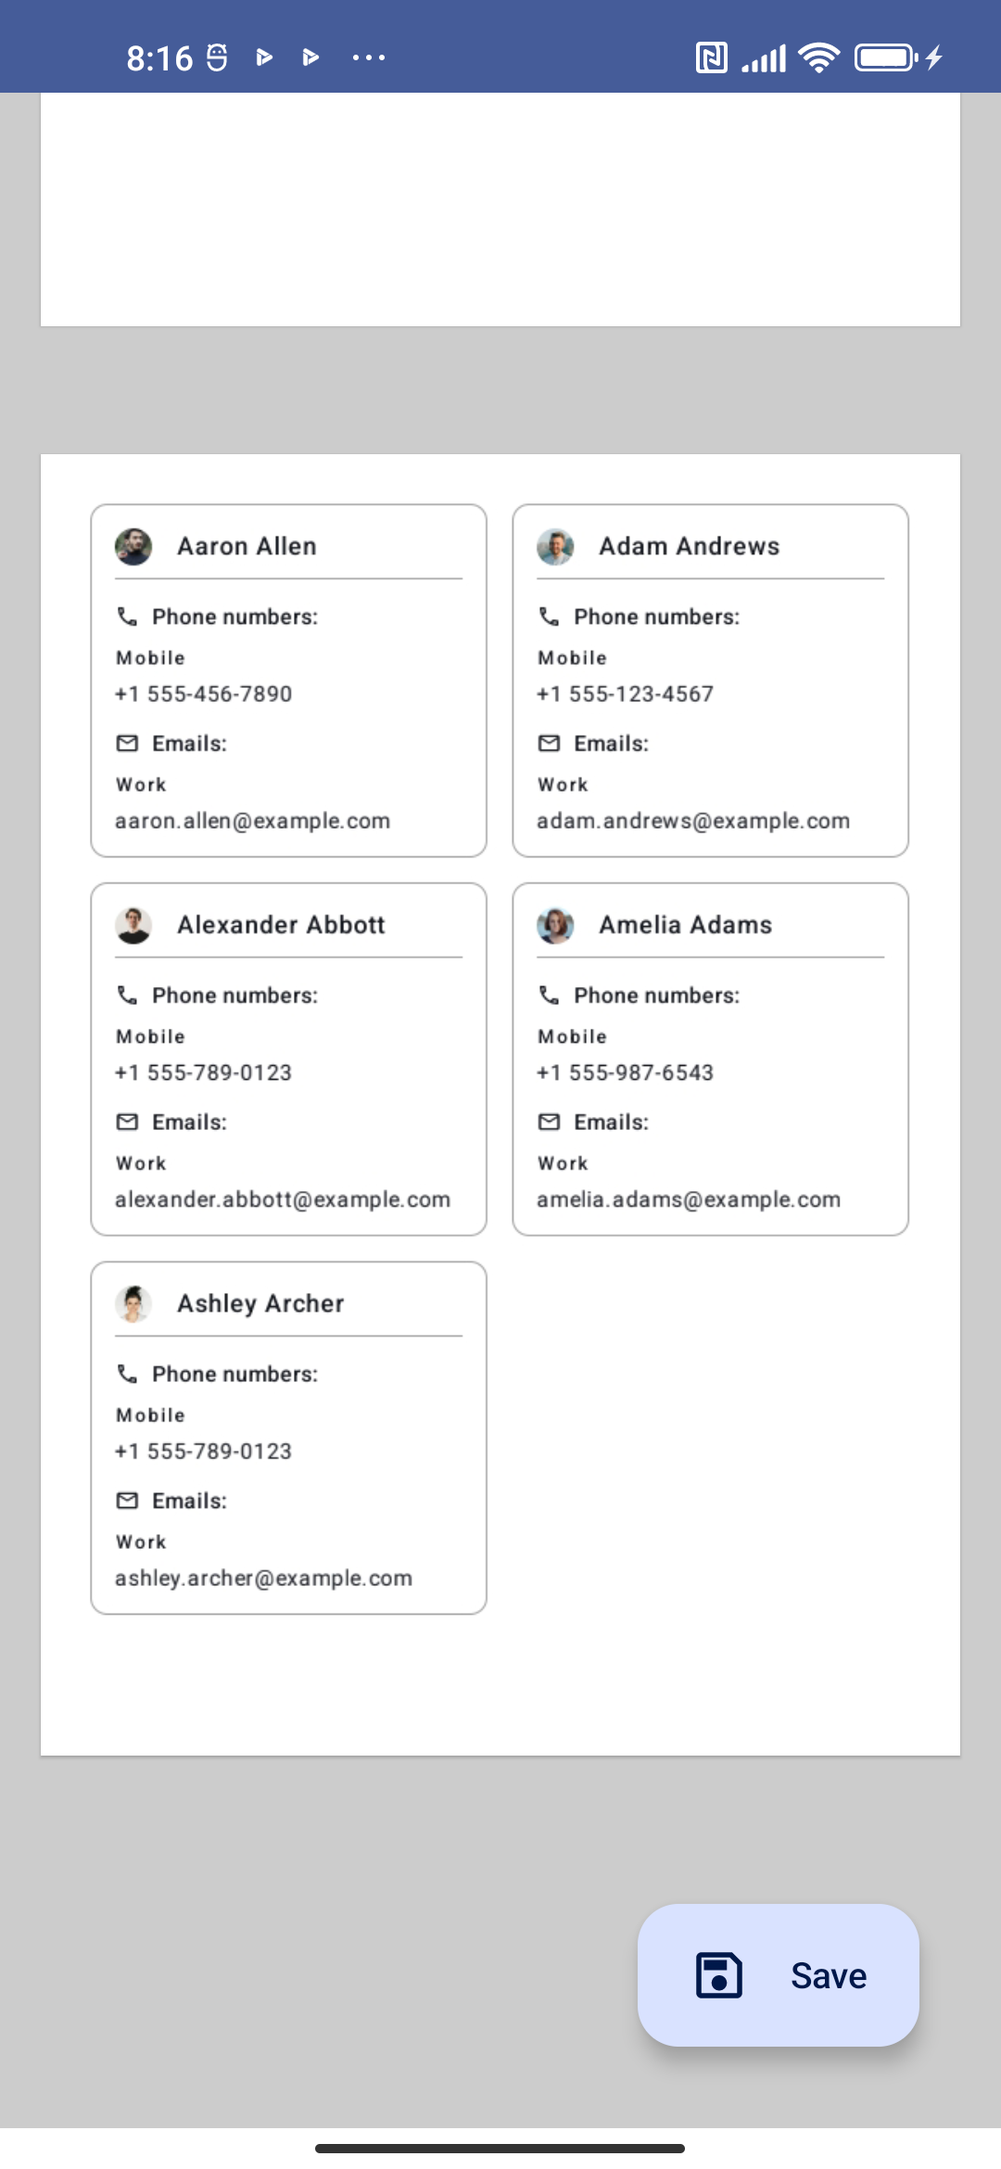
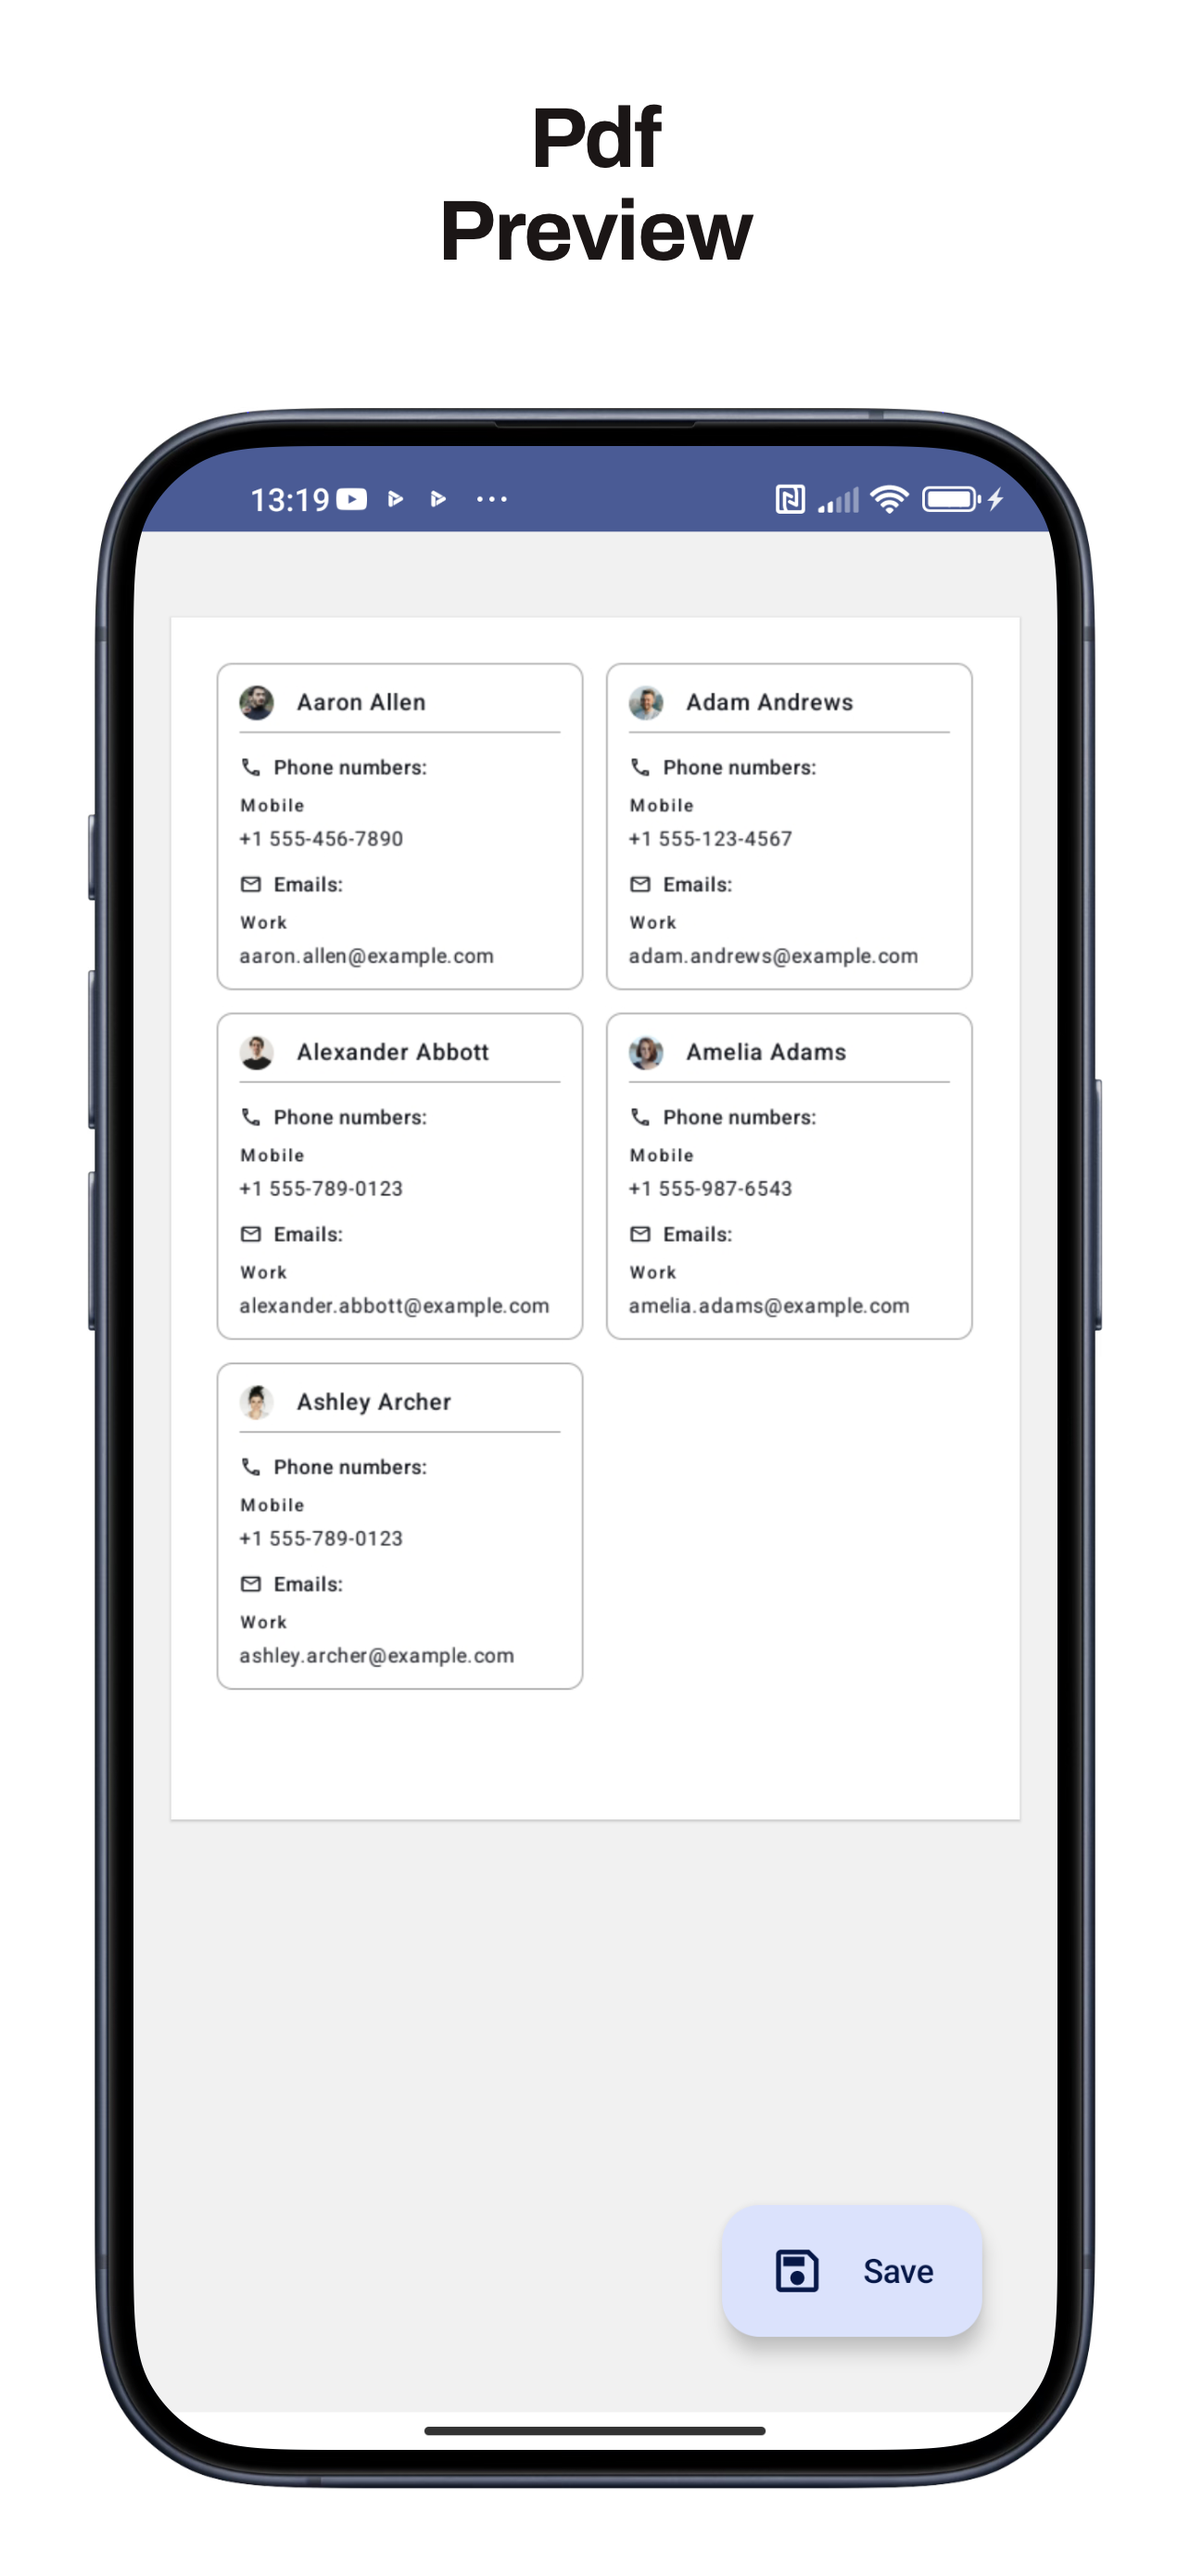
Background Color PdfPreviewScreen Update screenshots

diff --git a/app/src/main/java/com/teocoding/exportmycontacts/presentation/screen/pdf_preview/PdfPreviewScreen.kt b/app/src/main/java/com/teocoding/exportmycontacts/presentation/screen/pdf_preview/PdfPreviewScreen.kt
@@ -67,7 +67,7 @@ fun PdfPreviewScreen(
             .onGloballyPositioned {
                 boxSize = it.size
             }
-            .background(Color.LightGray)
+            .background(Color(0xFFF1F1F1))
             .fillMaxSize()
     ) {
 

diff --git a/README.md b/README.md
@@ -9,7 +9,7 @@ ExportMyContacts is a simple app designed to export your phone book contacts int
 ## Screenshots
 
 <p align="center" width="100%">
-    <img width="25%" src="screenshots/screenshot_select.png">
+    <img width="25%" src="screenshots/screenshot_contact_selection.png">
     <img width="25%" src="screenshots/screenshot_pdf_preview.png">
 </p>
 
